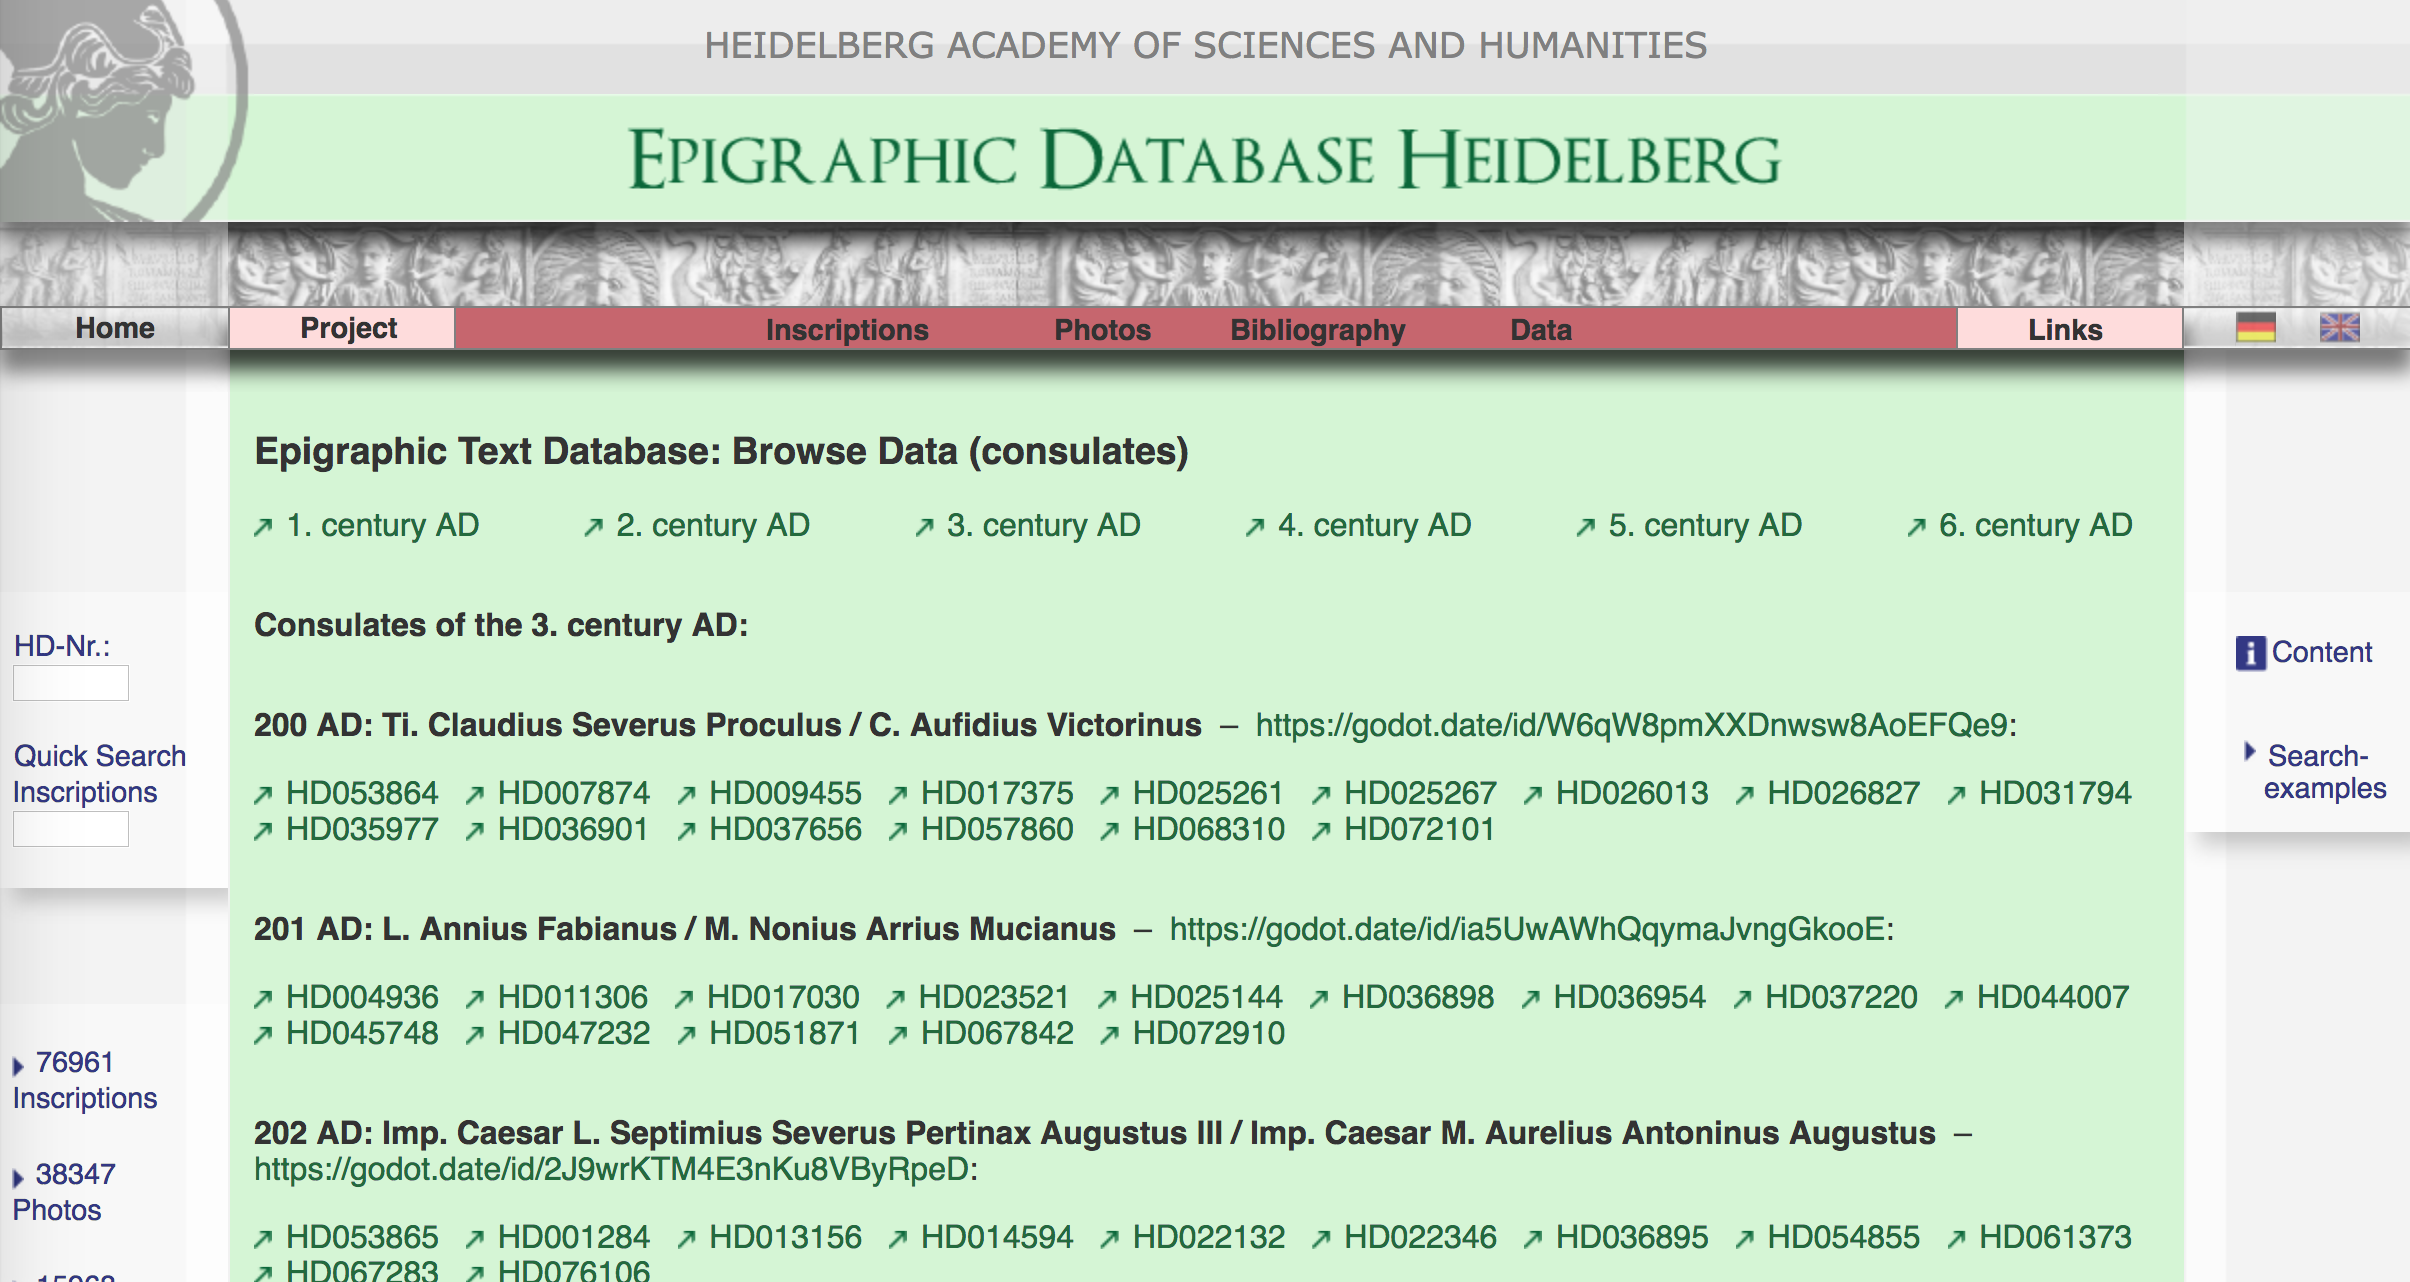
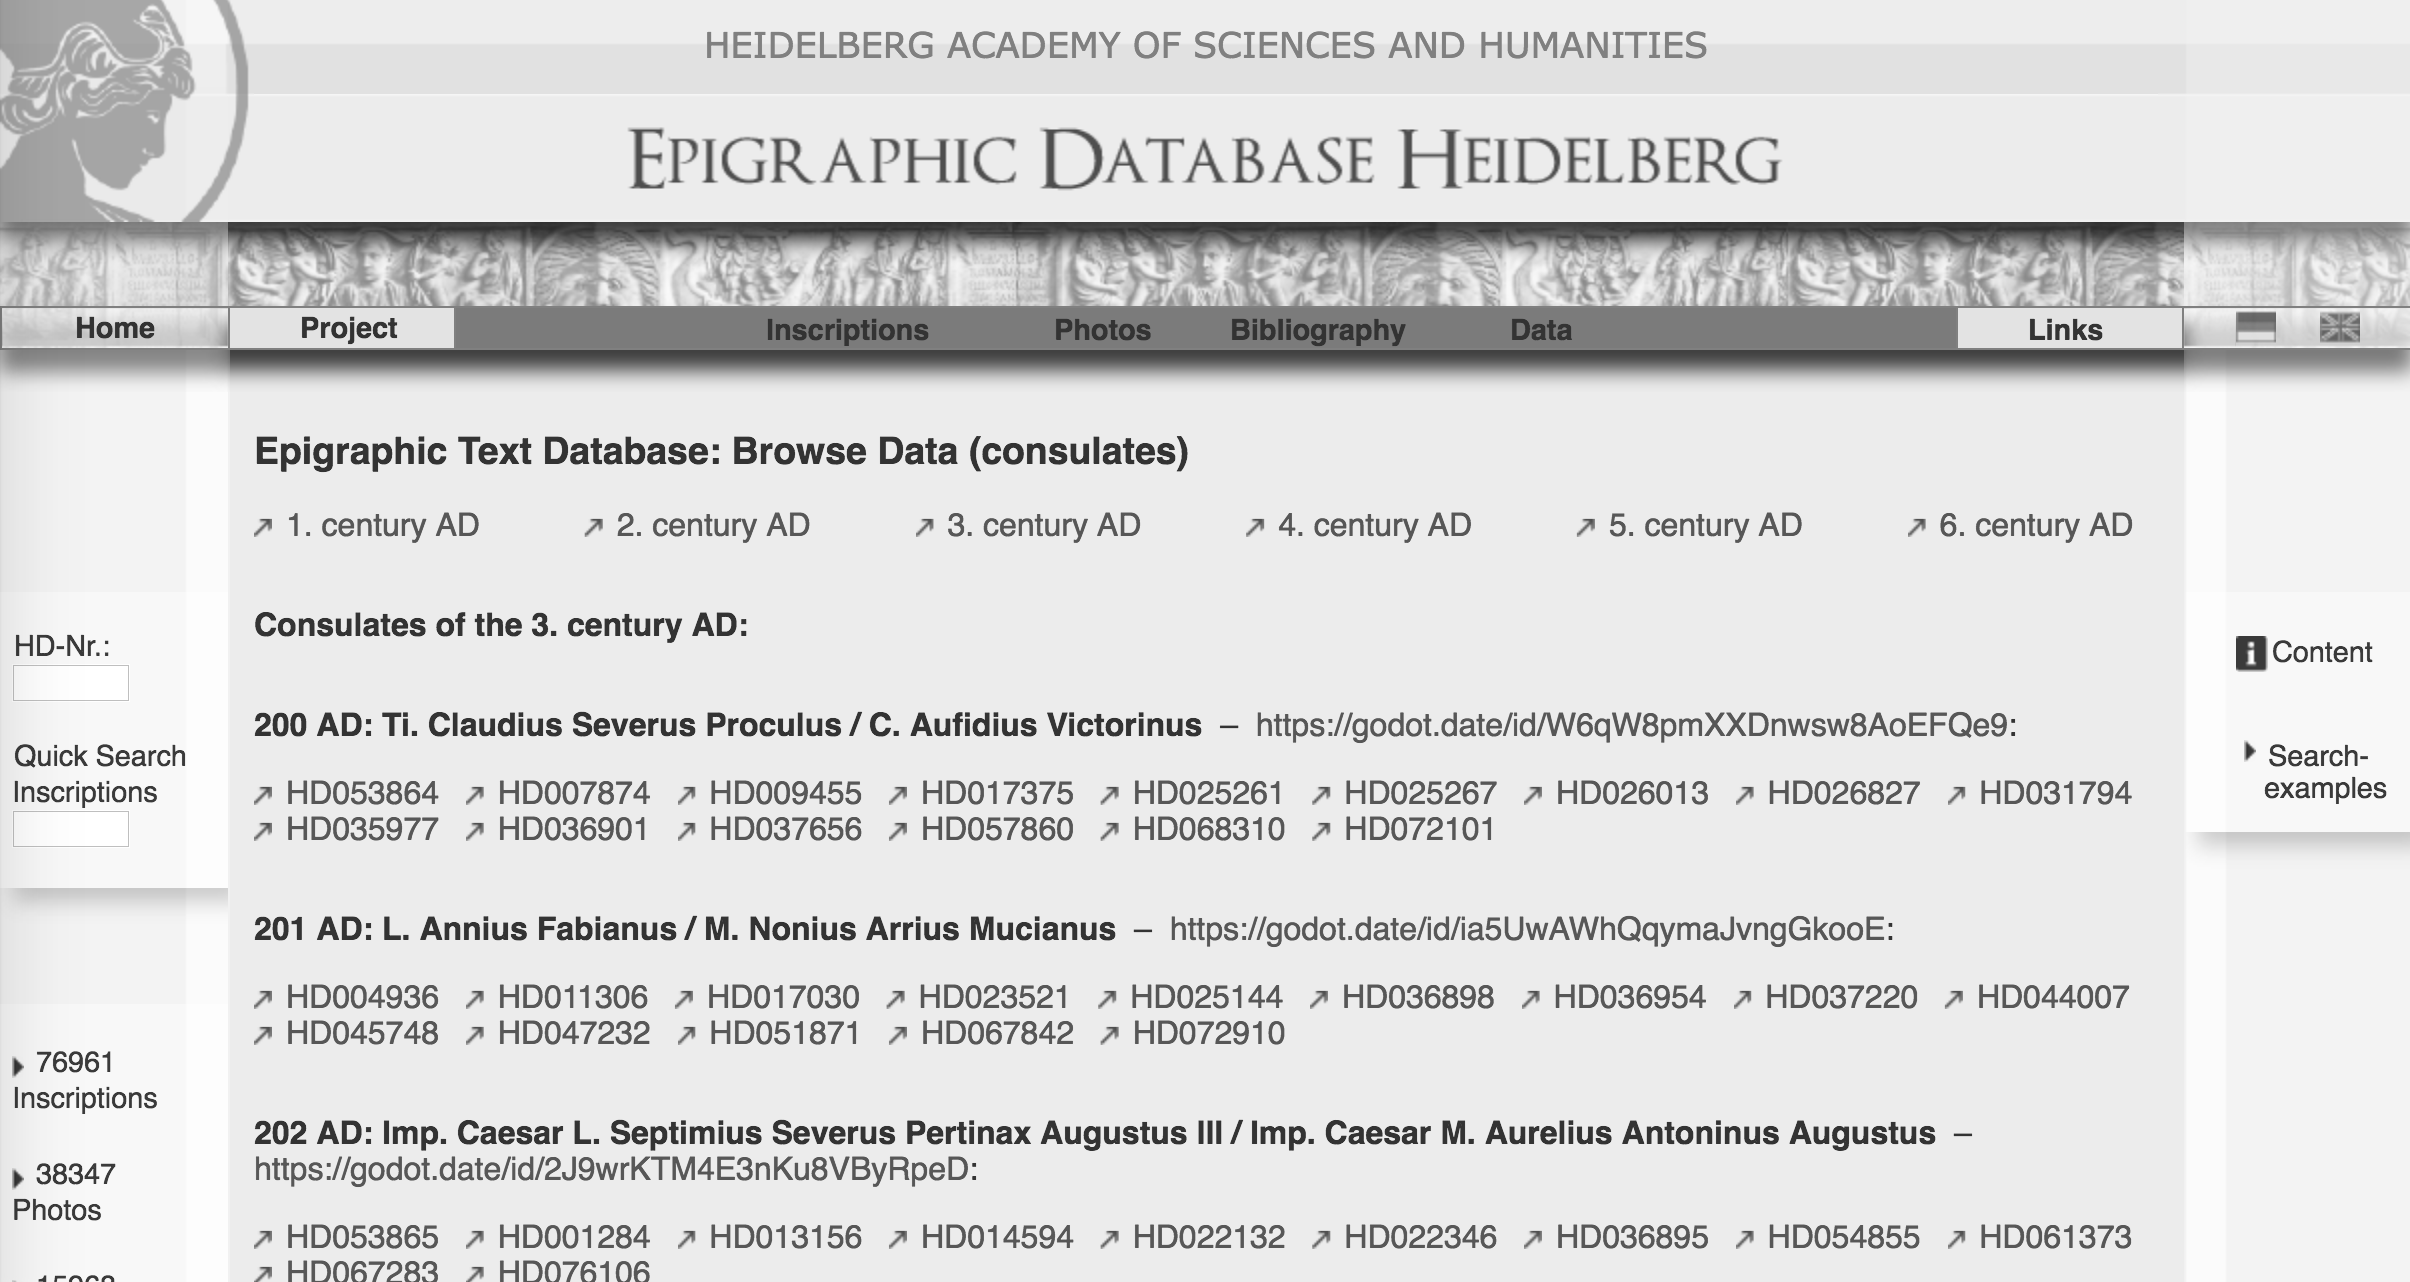
updated EDH data description page

diff --git a/app/templates/data_edh.html b/app/templates/data_edh.html
@@ -10,7 +10,7 @@
 <p>For this all Latin transcriptions have been searched for the string "consulibus" which denotes a Roman consular
     dating (usually two Roman officials): "When X and Y have been Consuls...". This resulted in ca. 2.000 hits, which
     were then upload into a Google Spreadsheet.</p>
-<p style="text-align:center"><img src="/static/edh_godot_spreadsheet.png"
+<p style="text-align:center"><img src="/static/edh_godot_spreadsheet_bw.png"
                                   style="border:1px solid #ccc;margin-top:1em;margin-bottom:1em;"/></p>
 <p>Using the <a href="/tools/search/consulate">Search for Roman Consulate</a> tool on the GODOT website, GODOT URIs have
     been assigned to records, excluding some instances where the consuls' names have not been preserved completely enough
@@ -18,10 +18,11 @@
 <p>These GODOT URIs in the next step have been imported into the Epigraphic Database Heidelberg search index, and a
     webpage created on which users can browse through Latin inscriptions by ancient Roman consulates, grouped by
     century:</p>
-<p style="text-align:center"><img src="/static/edh_godot_uris.png"
+<p style="text-align:center"><img src="/static/edh_godot_uris_bw.png"
                                   style="border:1px solid #ccc;margin-top:1em;margin-bottom:1em;"/></p>
 
-<p style="margin-bottom:2em;">Excluded for the time being are consulates mentioned as part of the Roman emperor's
-    titulature (usually "consule" in
-    Latin transcription, sometimes followed by a number).</p>
+<p>Excluded for the time being are consulates mentioned as part of the Roman emperor's
+    titulature (usually "consul" in
+    Latin transcription, often followed by a number).</p>
+<p style="margin-bottom:2em;">Data has been created by Dr. F. Grieshaber and processed and imported in September 2018. </p>
 {% endblock %}

diff --git a/app/templates/base.html b/app/templates/base.html
@@ -94,7 +94,7 @@
     </div>
     <footer class="footer">
       <div class="container">
-        <p class="text-muted"><a href=""><span class="initial">G</span>raph <span class="initial">o</span>f <span class="initial">D</span>ated <span class="initial">O</span>bjects and <span class="initial">T</span>exts</a></p>
+        <p class="text-muted"><a href="/contact"><span class="initial">G</span>raph <span class="initial">o</span>f <span class="initial">D</span>ated <span class="initial">O</span>bjects and <span class="initial">T</span>exts</a></p>
       </div>
     </footer>
 {% endblock %}
